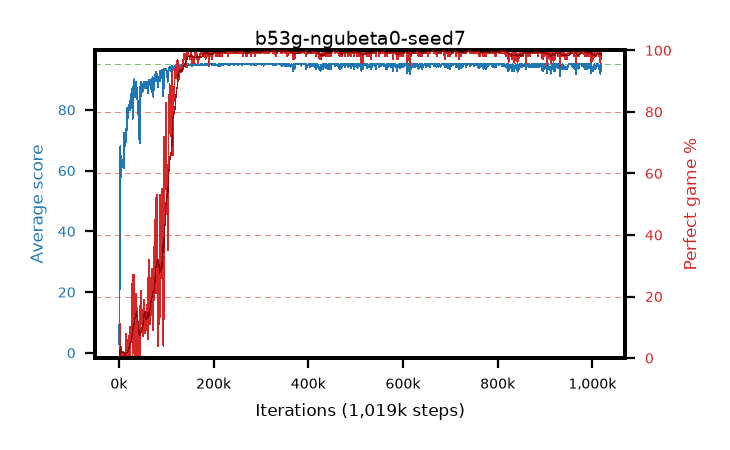
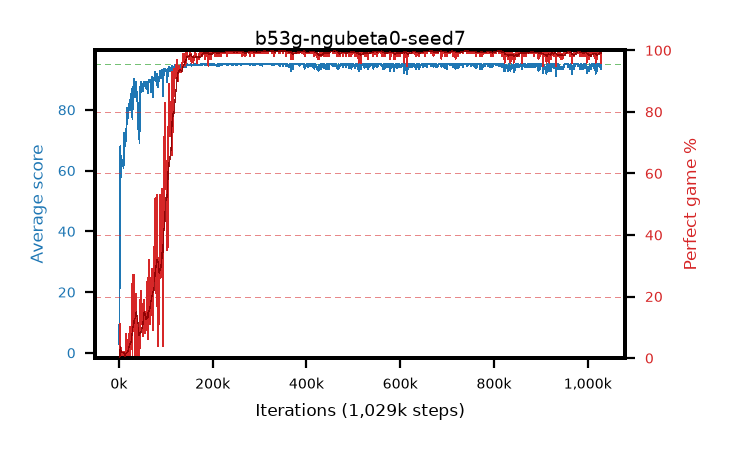
live pictures of 4 arm(s)

diff --git a/results/b53g-ngubeta0-seed7/b53g-ngubeta0-seed7.md b/results/b53g-ngubeta0-seed7/b53g-ngubeta0-seed7.md
@@ -1,6 +1,6 @@
 # b53g-ngubeta0-seed7
 
-step **1,019,000** · 1019 evals · trailing **94.05** · peak **94.97** @274,000 · sef **89.1** · best30 **99.8** @348,000
+step **1,029,000** · 1029 evals · trailing **94.18** · peak **94.97** @274,000 · sef **89.2** · best30 **99.8** @348,000
 
 ## Config
 
@@ -80,15 +80,15 @@ step **1,019,000** · 1019 evals · trailing **94.05** · peak **94.97** @274,00
 | 2000 | 37.8 | 20.34 | 6.0 | 63.0 | 32.628 | 0.0 | 0.4 |
 | 3000 | 67.99 | 36.22 | 23.0 | 95.0 | 74.006 | 11.0 | 0.4 |
 | ... | ... | ... | ... | ... | ... | ... | ... |
-| 1008000 | 94.21 | 94.2 | 16.0 | 95.0 | 191.964 | 99.0 | 0.4 |
-| 1009000 | 95.0 | 94.23 | 95.0 | 95.0 | 193.794 | 100.0 | 0.4 |
-| 1010000 | 94.32 | 94.2 | 27.0 | 95.0 | 192.069 | 99.0 | 0.4 |
-| 1011000 | 94.28 | 94.18 | 23.0 | 95.0 | 192.024 | 99.0 | 0.4 |
-| 1012000 | 94.97 | 94.21 | 92.0 | 95.0 | 192.761 | 99.0 | 0.4 |
-| 1013000 | 95.0 | 94.23 | 95.0 | 95.0 | 193.785 | 100.0 | 0.4 |
-| 1014000 | 93.53 | 94.23 | 18.0 | 95.0 | 190.239 | 98.0 | 0.4 |
-| 1015000 | 94.21 | 94.21 | 16.0 | 95.0 | 191.963 | 99.0 | 0.4 |
-| 1016000 | 93.51 | 94.16 | 20.0 | 95.0 | 190.224 | 98.0 | 0.4 |
-| 1017000 | 91.91 | 94.05 | 10.0 | 95.0 | 186.548 | 96.0 | 0.4 |
 | 1018000 | 95.0 | 94.11 | 95.0 | 95.0 | 193.79 | 100.0 | 0.4 |
 | 1019000 | 92.78 | 94.05 | 19.0 | 95.0 | 188.458 | 97.0 | 0.4 |
+| 1020000 | 94.27 | 94.08 | 22.0 | 95.0 | 192.02 | 99.0 | 0.4 |
+| 1021000 | 95.0 | 94.08 | 95.0 | 95.0 | 193.786 | 100.0 | 0.4 |
+| 1022000 | 94.28 | 94.08 | 23.0 | 95.0 | 192.034 | 99.0 | 0.4 |
+| 1023000 | 95.0 | 94.08 | 95.0 | 95.0 | 193.786 | 100.0 | 0.4 |
+| 1024000 | 95.0 | 94.08 | 95.0 | 95.0 | 193.782 | 100.0 | 0.4 |
+| 1025000 | 95.0 | 94.13 | 95.0 | 95.0 | 193.787 | 100.0 | 0.4 |
+| 1026000 | 94.18 | 94.1 | 13.0 | 95.0 | 191.926 | 99.0 | 0.4 |
+| 1027000 | 94.37 | 94.08 | 32.0 | 95.0 | 192.124 | 99.0 | 0.4 |
+| 1028000 | 93.34 | 94.12 | 20.0 | 95.0 | 188.058 | 96.0 | 0.4 |
+| 1029000 | 95.0 | 94.18 | 95.0 | 95.0 | 193.79 | 100.0 | 0.4 |
